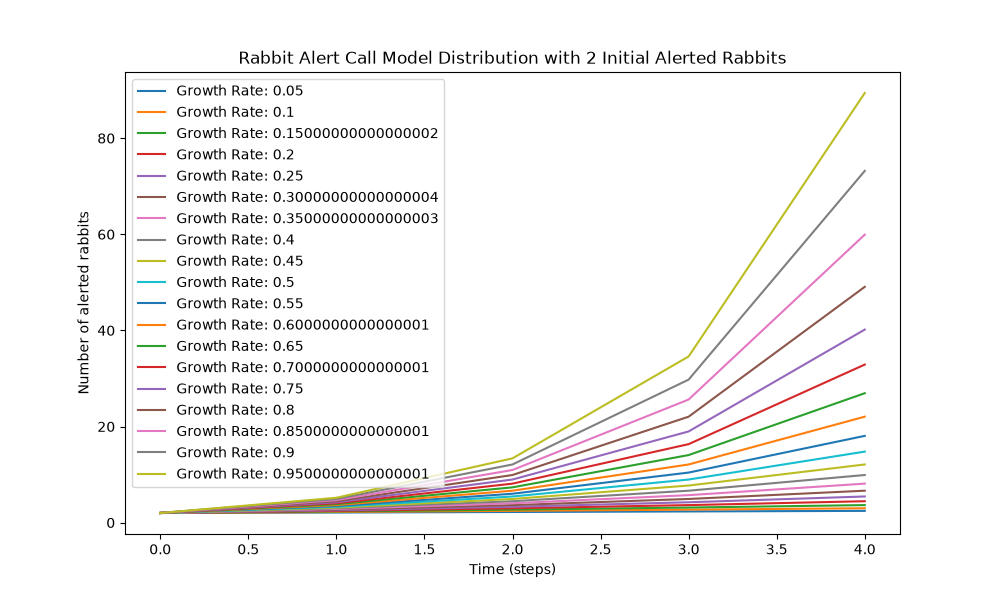
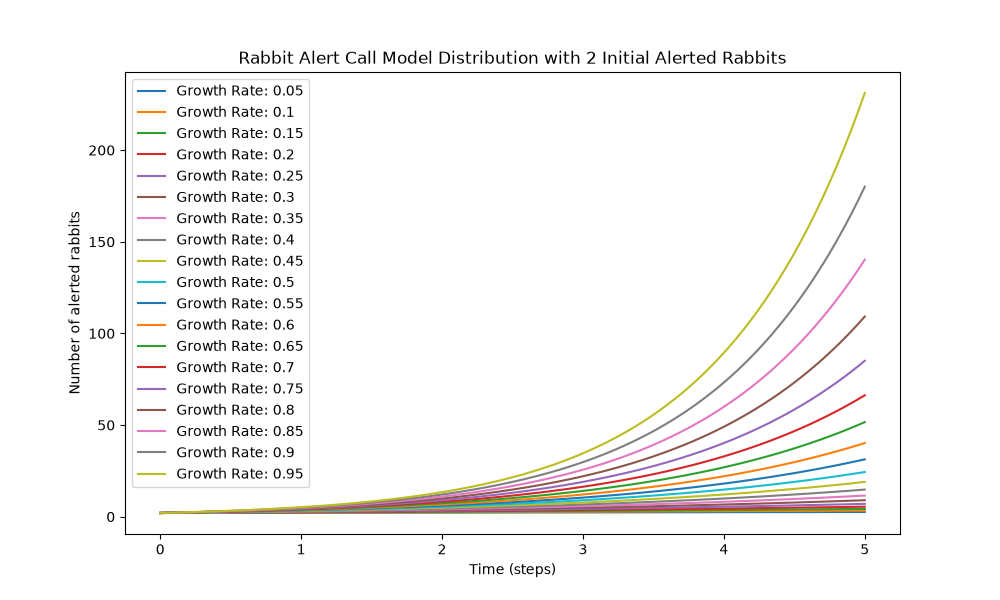
Solidify Capped Exponential Model

diff --git a/compare_models.py b/compare_models.py
@@ -24,8 +24,8 @@ if __name__=="__main__":
         for rate in args.spread_rates:
             equation = exponential_model.form_differential_equation(rate)
             solution = exponential_model.solve_equation(equation, initial_point)
-            x, y = exponential_model.gather_data(solution)
-            plt.plot(x, y, label=f"Growth Rate: {rate}")
+            x, y = exponential_model.gather_data(solution, start_time=0, end_time=5, num_points=100)
+            plt.plot(x, y, label=f"Growth Rate: {round(rate, 2)}")
         plt.legend()
         plt.savefig(f"rabbit_alerts_{initial_point}_spread_rates_naive_exponential.png")
         plt.close()
@@ -41,8 +41,11 @@ if __name__=="__main__":
         for rate in args.spread_rates:
             equation = capped_exponential_model.form_differential_equation(rate)
             solution = capped_exponential_model.solve_equation(equation, initial_point)
-            x, y = capped_exponential_model.gather_data(solution, args.capacity)
-            plt.plot(x, y, label=f"Growth Rate: {rate}")
+            poi = capped_exponential_model.find_point_of_intersection(solution, args.capacity)
+            piecewise_solution = capped_exponential_model.form_piecewise_solution(solution, args.capacity, poi)
+            x, y = capped_exponential_model.gather_data(piecewise_solution, start_time=0, end_time=5, num_points=100)
+            
+            plt.plot(x, y, label=f"Growth Rate: {round(rate, 2)}")
         plt.legend()
         plt.savefig(f"rabbit_alerts_{initial_point}_spread_rates_capped_exponential.png")
         plt.close()

diff --git a/exponential_model.py b/exponential_model.py
@@ -63,6 +63,22 @@ def gather_data(solution: Equality):
         num_alerted.append(right.subs(t, i))
     return times, num_alerted
 
+def gather_data(solution: Equality,
+                start_time: float,
+                end_time: float,
+                num_points: int):
+    time_values = np.linspace(start_time, end_time, num_points)
+
+    alert_function = lambdify(
+        t,
+        solution.rhs,
+        modules=['numpy']
+    )
+
+    alert_values = alert_function(time_values)
+
+    return time_values, alert_values
+
 if __name__=="__main__":
     parser = argparse.ArgumentParser(description="Insert parameters for modeling rabbit alert calls.")
     parser.add_argument("--initial_alerted", type=int, default=1, help="Number of rabbits that detect the predator immediately")

diff --git a/capped_exponential_model.py b/capped_exponential_model.py
@@ -63,6 +63,22 @@ def gather_data(solution: Equality, carrying_capacity: int):
         num_alerted.append(min(right.subs(t, i), carrying_capacity))
     return times, num_alerted
 
+def gather_data(solution: Piecewise,
+                start_time: float,
+                end_time: float,
+                num_points: int):
+    time_values = np.linspace(start_time, end_time, num_points)
+
+    alert_function = lambdify(
+        t,
+        solution,
+        modules=['numpy']
+    )
+
+    alert_values = alert_function(time_values)
+
+    return time_values, alert_values
+
 def find_point_of_intersection(solution: Equality, carrying_capacity: int):
     equation = Eq(carrying_capacity, solution.rhs)
     point = solve(equation, t)
